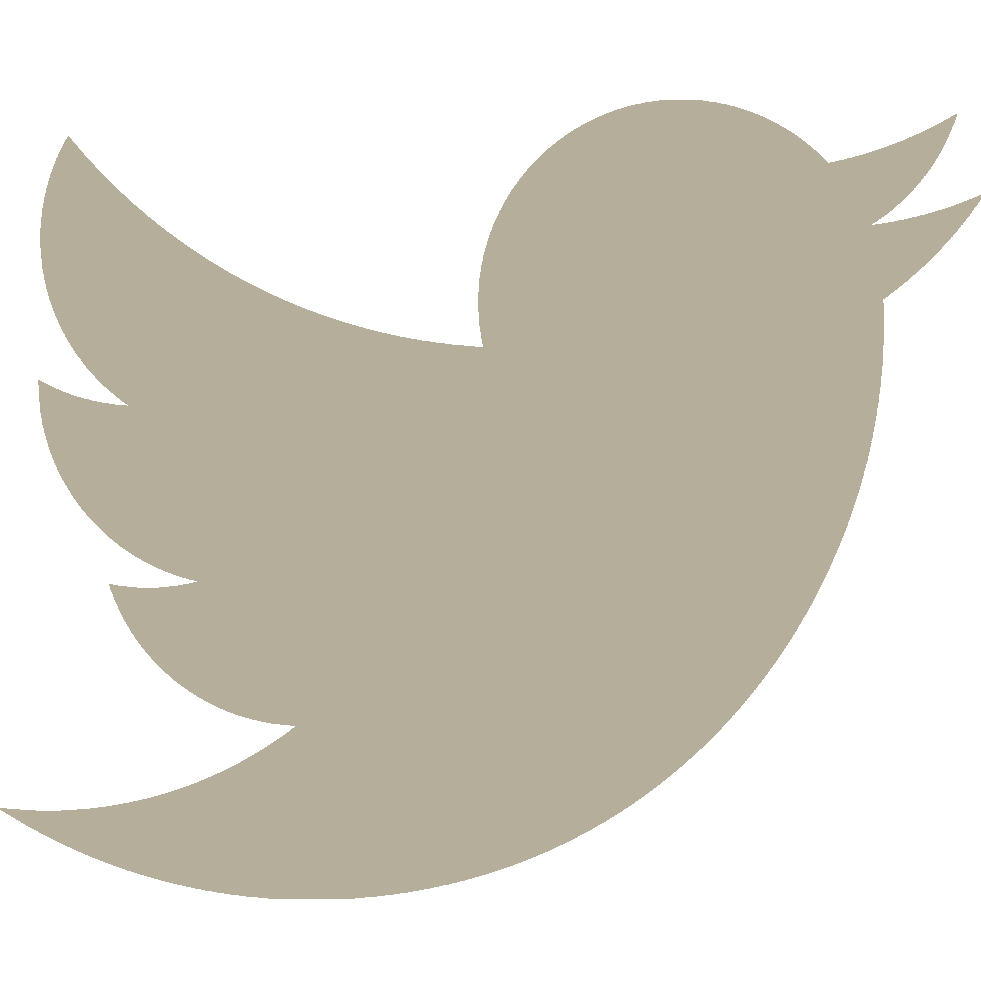
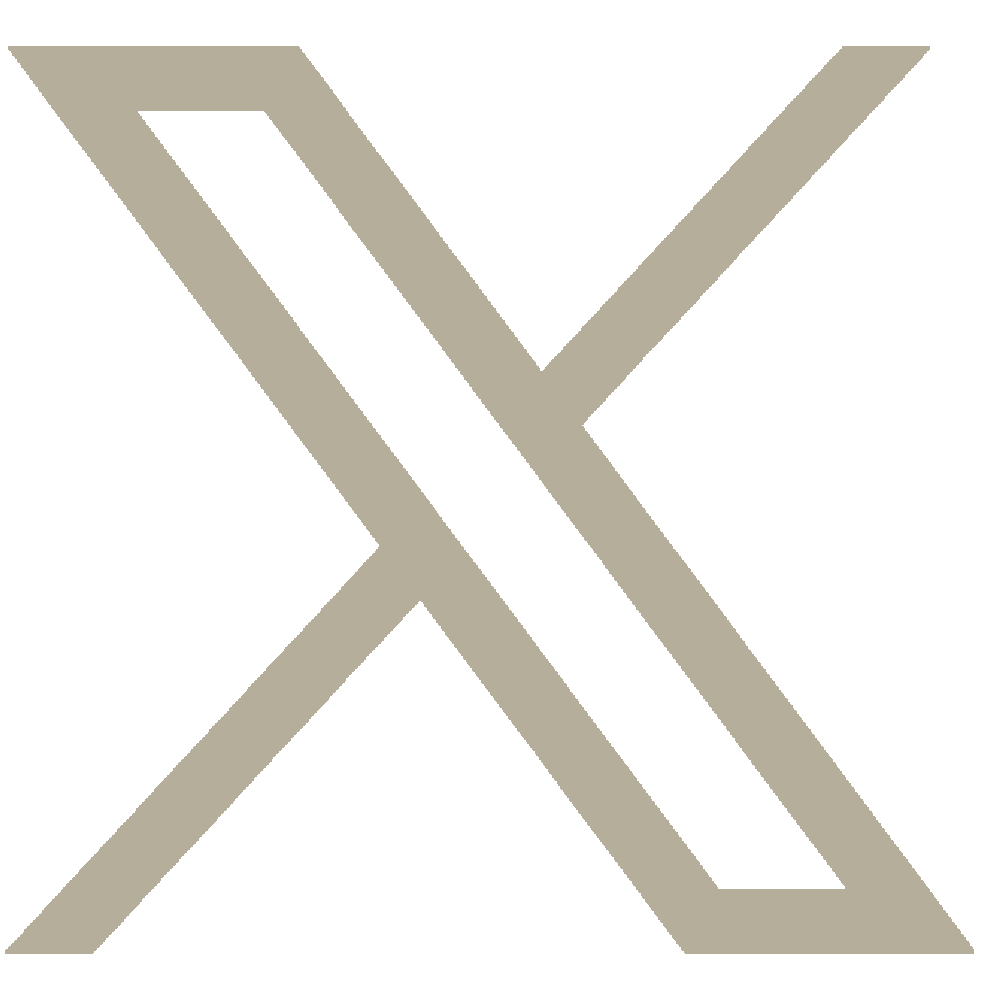
Big update

diff --git a/js/pages.js b/js/pages.js
@@ -448,13 +448,14 @@ function language() {
         toTranslate[it.next().value].textContent = 'Other';
         toTranslate[it.next().value].innerHTML = '<div class="overlay-left"><img src="images/ovhone.png"></div>Contacts<div class="overlay-right"><img src="images/ovhone.png"></div>';
         if (wrap) {
+            toTranslate[it.next().value].textContent = 'Welcome';
             toTranslate[it.next().value].textContent = 'Works';
             toTranslate[it.next().value].textContent = 'Contacts';
             toTranslate[it.next().value].textContent = 'Collaborations';
             toTranslate[it.next().value].textContent = 'Special Thanks';
             toTranslate[it.next().value].innerHTML = '<div class="overlay-left"><img src="images/ovhone.png"></div>About Me<div class="overlay-right"><img src="images/ovhone.png"></div>';
             toTranslate[it.next().value].innerHTML = '<div class="overlay-left"><img src="images/ovhone.png"></div>Welcome<div class="overlay-right"><img src="images/ovhone.png"></div>';
-            toTranslate[it.next().value].innerHTML = '<img id="logoAboutMe" src="images/LogoAboutMe.png">My name is "2G_Arts". You could surely notice how many of my creations have been affected by the works with which I resonate the most, for example Steins;Gate, which tells the deep story of a man I see me in tune with; from the manga Attack on Titan, practically showing how a good technique alone isn\'t enough and it has to carry a more important message; also, in my works I tend to bend reality without parting from it, under the influence of two great directors like Christopher Nolan and Martin Scorsese. I put a lot of emphasis on shaping my emotions and my thoughts through arts, the only means that allows me to fully express thoughts and moods.';
+            toTranslate[it.next().value].innerHTML = '<img id="logoAboutMe" src="images/LogoAboutMe.png">Hello everyone, I\'m 2G_Arts! Passionate about anime and manga, my creations are strongly influenced by the stories that have touched me the most. I particularly love Steins; Gate, an anime that has deeply inspired me, and Attack on Titan, which taught me that in artistic creation, technique is important, but it\'s the concept behind the artwork that makes it truly special. I\'m also a big fan of directors Christopher Nolan and Martin Scorsese, and I always try to incorporate a touch of their style into my work. But above all, art for me is a way to express my emotions and thoughts in a unique and creative way. I enjoy bending reality without losing touch with it, creating artworks that reflect who I am and what I feel. I hope my creations will excite you as much as they excite me when I create them!';
             toTranslate[it.next().value].textContent = 'More about';
             toTranslate[it.next().value].innerHTML = '<div class="overlay-left"><img src="images/ovhone.png"></div>Videos<div class="overlay-right"><img src="images/ovhone.png"></div>';
             toTranslate[it.next().value].textContent = 'More about';
@@ -578,13 +579,14 @@ function language() {
         toTranslate[it.next().value].textContent = 'Altro';
         toTranslate[it.next().value].innerHTML = '<div class="overlay-left"><img src="images/ovhone.png"></div>Contatti<div class="overlay-right"><img src="images/ovhone.png"></div>';
         if (wrap) {
+            toTranslate[it.next().value].textContent = 'Benvenuti';            
             toTranslate[it.next().value].textContent = 'Lavori';
             toTranslate[it.next().value].textContent = 'Contatti';
             toTranslate[it.next().value].textContent = 'Collaborazioni';
             toTranslate[it.next().value].textContent = 'Ringraziamenti';
             toTranslate[it.next().value].innerHTML = '<div class="overlay-left"><img src="images/ovhone.png"></div>Chi sono<div class="overlay-right"><img src="images/ovhone.png"></div>';
             toTranslate[it.next().value].innerHTML = '<div class="overlay-left"><img src="images/ovhone.png"></div>Benvenuti<div class="overlay-right"><img src="images/ovhone.png"></div>';
-            toTranslate[it.next().value].innerHTML = '<img id="logoAboutMe" src="images/LogoAboutMe.png">Mi chiamo "2G_Arts". Noterete sicuramente come molte delle mie creazioni siano state influenzate dalle opere con cui risuono di più, ad esempio dall\'anime Steins; Gate, il quale racconta una storia profonda che mi vede in sintonia col protagonista; dal manga de\' L\'Attacco dei giganti, dimostrazione pratica di come la tecnica da sola non basta e deve essere veicolo di un messaggio importante; inoltre, nei miei lavori tendo a piegare la realtà senza distaccarmene, sotto influenza di due grandi registi come Christopher Nolan e Martin Scorsese. Pongo molta enfasi nel dare una forma alle mie emozioni ed i miei pensieri tramite l\'arte, l\'unico mezzo che mi permette a pieno di esprimere pensieri e stati d\'animo.';
+            toTranslate[it.next().value].innerHTML = '<img id="logoAboutMe" src="images/LogoAboutMe.png">Ciao a tutti, sono 2G_Arts! Appassionato di anime e manga, le mie creazioni sono fortemente influenzate dalle storie che mi hanno colpito di più. Amo particolarmente Steins; Gate, un anime che mi ha ispirato profondamente, e L\'Attacco dei giganti, che mi ha insegnato che nella creazione artistica, la tecnica è importante, ma è il concetto dietro un\'opera a renderla davvero speciale. Sono anche un grande fan dei registi Christopher Nolan e Martin Scorsese, e cerco sempre di portare un tocco del loro stile nei miei lavori. Ma soprattutto, l\'arte per me è un modo di esprimere le mie emozioni e pensieri in modo unico e creativo. Mi piace piegare la realtà senza perderne il contatto, creando opere che riflettono chi sono e cosa sento. Spero che le mie creazioni vi emozionino tanto quanto me emozionano nel crearle!';
             toTranslate[it.next().value].textContent = 'Scopri di più';
             toTranslate[it.next().value].innerHTML = '<div class="overlay-left"><img src="images/ovhone.png"></div>Video<div class="overlay-right"><img src="images/ovhone.png"></div>';
             toTranslate[it.next().value].textContent = 'Scopri di più';

diff --git a/pages/AboutMe.html b/pages/AboutMe.html
@@ -17,7 +17,7 @@
     <div class="sideBut" id="wrapper" onmouseenter="selection()" onmouseleave="selectionLeave()">
         <button class="button" id="2g" onclick="select(0);clicked(0)">
             <div class="sideStyle"></div>
-            <div id="YoRHa" onmouseover="buttonHover(0)" onmouseleave="buttonLeave(0)">2G_Arts</div>
+            <div class="en" id="YoRHa" onmouseover="buttonHover(0)" onmouseleave="buttonLeave(0)">Benvenuti</div>
         </button>
         <button class="button" onclick="select(1);clicked(1)">
             <div class="sideStyle"></div>
@@ -46,8 +46,8 @@
             <h1 class="en" id="welcome">
                 <div class="overlay-left"><img src="images/ovhone.png"></div>Benvenuti!<div class="overlay-right"><img src="images/ovhone.png"></div>
             </h1>
-            <p class="en" id="firstPart"><img id="logoAboutMe" src="images/LogoAboutMe.png">Mi chiamo "2G Arts" . Noterete sicuramente come molte delle mie creazioni siano state influenzate dalle opere con cui risuono di più, ad esempio dall'anime Steins; Gate, il quale racconta una storia profonda che mi vede in sintonia col protagonista; dal manga Attack on Titan, dimostrazione pratica di come la tecnica da sola non basta e deve essere veicolo di un messaggio importante; inoltre, nei miei lavori tendo a piegare la realtà senza distaccarmene, sotto influenza di due grandi registi come Christopher Nolan e Martin Scorsese.
-                Pongo molta enfasi nel dare una forma alle mie emozioni ed i miei pensieri tramite l'arte, l'unico mezzo che mi permette a pieno di esprimere pensieri e stati d'animo.</p>
+            <p class="en" id="firstPart"><img id="logoAboutMe" src="images/LogoAboutMe.png">Ciao a tutti, sono 2G_Arts! Appassionato di anime e manga, le mie creazioni sono fortemente influenzate dalle storie che mi hanno colpito di più. Amo particolarmente Steins; Gate, un anime che mi ha ispirato profondamente, e L'Attacco dei giganti, che mi ha insegnato che nella creazione artistica, la tecnica è importante, ma è il concetto dietro un'opera a renderla davvero speciale.
+                Sono anche un grande fan dei registi Christopher Nolan e Martin Scorsese, e cerco sempre di portare un tocco del loro stile nei miei lavori. Ma soprattutto, l'arte per me è un modo di esprimere le mie emozioni e pensieri in modo unico e creativo. Mi piace piegare la realtà senza perderne il contatto, creando opere che riflettono chi sono e cosa sento. Spero che le mie creazioni vi emozionino tanto quanto me emozionano nel crearle</p>
         </div>
         <div class="rightBlock show" id="lavoriRightBlock">
             <div class="lavori" id="lavorialt">
@@ -225,10 +225,10 @@
                 <div class="contactRow"><a href="https://www.tiktok.com/@twog_arts" target="_blank"><img
                         src="images/icons/tiktok.png">TikTok:
                     @twog_arts</a></div>
-                    
+
                 <div class="contactRow"><a href="https://twitter.com/TwoG_Arts" target="_blank"><img
-                        src="images/icons/twitter.png">Twitter:
-                        @Yorha2g</a></div>
+                        src="images/icons/twitter.png">X:
+                        @TwoG_Arts</a></div>
             </div>
             
         </div>

diff --git a/pages/Videos.html b/pages/Videos.html
@@ -76,6 +76,12 @@
                 <!--add the most recent collaboration video below-->
 
                 <div class="video">
+                    <a href="https://www.youtube.com/watch?v=G4974wZPcy8" target="_blank"><img src="images/videos/bestof8.png">
+                        <div class="text"><p>LosMichele-Best of TWITCH #8</p><img src="images/icons/link.png"></div>
+                    </a>
+                </div>
+
+                <div class="video">
                     <a href="https://www.youtube.com/watch?v=w9_J-0_8OkA" target="_blank"><img src="images/videos/pill11.png">
                         <div class="text"><p>Pillole di LosMichele #11 - Il distruttore di Mondi.</p><img src="images/icons/link.png"></div>
                     </a>

diff --git a/css/Style.css b/css/Style.css
@@ -340,7 +340,7 @@ header ul, header li {
     flex-direction: row;
     align-items: center;
     justify-content: center;
-    width: 22rem;
+    width: 15rem;
 }
 
 .rightBlock a {
